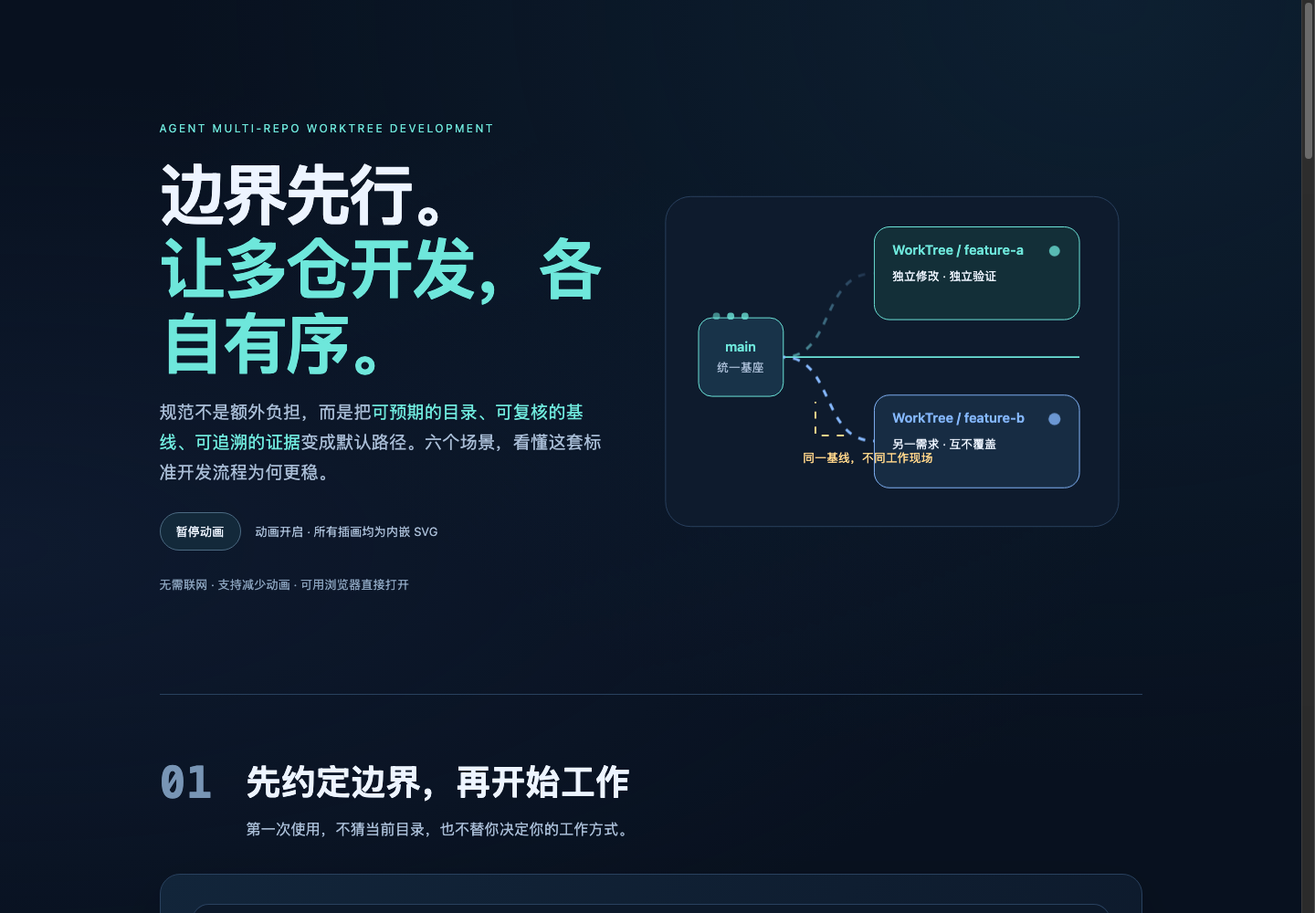
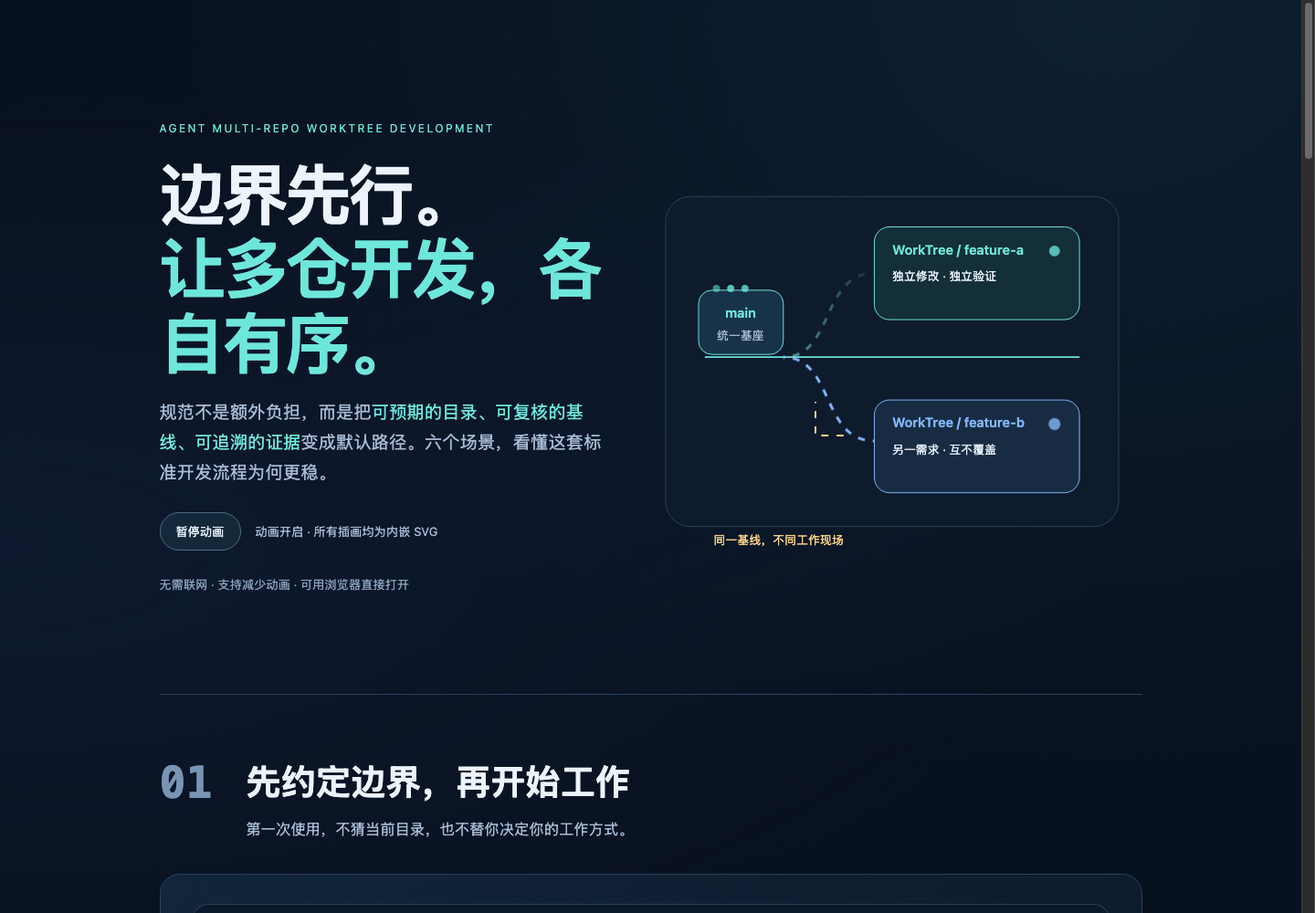
fix: remove visualization animation overlaps

Changed region(s): [[0.625, 0.434, 0.8125, 0.558], [0.5312, 0.31, 0.5938, 0.434], [0.5625, 0.589, 0.6562, 0.62]]

diff --git a/docs/visualizations/standard-workflow.html b/docs/visualizations/standard-workflow.html
@@ -5,7 +5,7 @@
 <meta name="viewport" content="width=device-width,initial-scale=1">
 <title>边界先行 · 多仓 Worktree 标准开发流程</title>
 <style>
-:root{color-scheme:dark;--bg:#08111f;--panel:#101e31;--ink:#edf4ff;--muted:#a6bad3;--cyan:#6ee7db;--blue:#86b9ff;--amber:#ffd58a;--red:#ff9b9b;--line:#29415e}*{box-sizing:border-box}body{margin:0;background:var(--bg);color:var(--ink);font:16px/1.75 -apple-system,BlinkMacSystemFont,"Segoe UI","PingFang SC","Microsoft YaHei",sans-serif}body:before{content:"";position:fixed;inset:0;pointer-events:none;background:radial-gradient(ellipse at 85% 0,#15354c66,transparent 60%),radial-gradient(ellipse at 0 60%,#17274666,transparent 60%)}main{position:relative;max-width:1220px;margin:auto;padding:0 5vw 60px}header{min-height:76vh;display:flex;flex-direction:column;justify-content:center;padding:60px 0 28px}.eyebrow{font-size:12px;letter-spacing:.2em;color:var(--cyan);text-transform:uppercase}h1{font-size:clamp(36px,6.5vw,72px);line-height:1.13;letter-spacing:-.045em;margin:20px 0}h1 span{color:var(--cyan)}h2{font-size:clamp(25px,3vw,38px);line-height:1.3;margin:0 0 14px}h3{font-size:19px;margin:0 0 8px}p{margin:10px 0;color:var(--muted)}strong{color:var(--ink);font-weight:650}.intro{max-width:720px;font-size:19px}.bad{color:var(--red)}.good{color:var(--cyan)}button{border:1px solid #4c6a82;background:#13293a;color:var(--ink);border-radius:999px;padding:9px 17px;font:inherit;cursor:pointer}button:hover{border-color:var(--cyan)}button:focus-visible{outline:3px solid var(--amber);outline-offset:4px}.controls{display:flex;gap:16px;align-items:center;margin:26px 0;font-size:13px;color:var(--muted)}.hero{display:grid;grid-template-columns:1fr 1.1fr;align-items:center;gap:30px}.hero svg{width:100%;max-height:420px}.note{font-size:13px;color:#88a0bb}.chapter{padding:70px 0 24px;border-top:1px solid var(--line)}.chapter-head{display:grid;grid-template-columns:80px 1fr;gap:15px;align-items:start;margin-bottom:25px}.number{font:600 48px/1.1 ui-monospace,SFMono-Regular,Consolas,monospace;color:#7895b5}.diagram{border:1px solid var(--line);border-radius:22px;background:linear-gradient(135deg,#12253a,#0c1728);overflow-x:auto;overflow-y:hidden;margin:24px 0;box-shadow:0 20px 65px #0002}.diagram svg{display:block;width:100%;height:auto}.caption{padding:0 22px 20px;font-size:14px;color:var(--muted)}.two-col{display:grid;grid-template-columns:1fr 1fr;gap:20px}.callout{border-left:3px solid var(--cyan);padding:10px 18px;background:#12253a88;border-radius:0 10px 10px 0;margin:20px 0}.callout p{margin:0}.warning{border-left-color:var(--amber)}.principles{display:grid;grid-template-columns:repeat(3,1fr);gap:16px;margin-top:24px}.principle{background:var(--panel);border:1px solid var(--line);border-radius:16px;padding:22px}.principle svg{width:48px;height:48px;vertical-align:middle;margin-right:10px}.principle h3{display:inline}.principle p{font-size:14px}.footer{margin-top:50px;padding-top:24px;border-top:1px solid var(--line);font-size:14px}.text-cyan{fill:#6ee7db}.text-blue{fill:#86b9ff}.text-amber{fill:#ffd58a}.text-muted{fill:#a6bad3}.text-ink{fill:#edf4ff}.text-red{fill:#ff9b9b}.svg-label{font:600 15px -apple-system,BlinkMacSystemFont,"Segoe UI","PingFang SC",sans-serif}.svg-small{font:13px -apple-system,BlinkMacSystemFont,"Segoe UI","PingFang SC",sans-serif}.svg-mono{font:12px ui-monospace,SFMono-Regular,Consolas,monospace}.flow{stroke-dasharray:8 9;animation:dash 3s linear infinite}.pulse{animation:pulse 2.8s ease-in-out infinite}.float{animation:float 5s ease-in-out infinite}.scan{animation:scan 4s ease-in-out infinite}.spin{transform-origin:center;animation:spin 14s linear infinite}.blink{animation:blink 2.4s ease-in-out infinite}.paused *{animation-play-state:paused!important}@keyframes dash{to{stroke-dashoffset:-68}}@keyframes pulse{0%,100%{opacity:.35}50%{opacity:1}}@keyframes float{0%,100%{transform:translateY(0)}50%{transform:translateY(-8px)}}@keyframes scan{0%,100%{transform:translateX(0);opacity:.1}45%,55%{transform:translateX(210px);opacity:.8}}@keyframes spin{to{transform:rotate(360deg)}}@keyframes blink{0%,100%{opacity:.3}50%{opacity:1}}@media(prefers-reduced-motion:reduce){*{animation:none!important;scroll-behavior:auto!important}}@media(max-width:760px){main{padding:0 6vw 40px}.hero,.two-col{grid-template-columns:1fr}.hero{padding-top:20px}.principles{grid-template-columns:1fr}.chapter{padding-top:44px}.chapter-head{grid-template-columns:48px 1fr}.number{font-size:32px}header{min-height:auto}.intro{font-size:17px}.diagram svg{width:800px;max-width:none}.hero svg{width:100%;max-width:none}}@media print{body{background:#fff;color:#111}body:before{display:none}p,.note,.caption,.controls,.footer{color:#333}.diagram,.principle{box-shadow:none;background:#12253a;border-color:#bbb}.chapter{break-inside:avoid}header{min-height:auto}.controls{display:none}}
+:root{color-scheme:dark;--bg:#08111f;--panel:#101e31;--ink:#edf4ff;--muted:#a6bad3;--cyan:#6ee7db;--blue:#86b9ff;--amber:#ffd58a;--red:#ff9b9b;--line:#29415e}*{box-sizing:border-box}body{margin:0;background:var(--bg);color:var(--ink);font:16px/1.75 -apple-system,BlinkMacSystemFont,"Segoe UI","PingFang SC","Microsoft YaHei",sans-serif}body:before{content:"";position:fixed;inset:0;pointer-events:none;background:radial-gradient(ellipse at 85% 0,#15354c66,transparent 60%),radial-gradient(ellipse at 0 60%,#17274666,transparent 60%)}main{position:relative;max-width:1220px;margin:auto;padding:0 5vw 60px}header{min-height:76vh;display:flex;flex-direction:column;justify-content:center;padding:60px 0 28px}.eyebrow{font-size:12px;letter-spacing:.2em;color:var(--cyan);text-transform:uppercase}h1{font-size:clamp(36px,6.5vw,72px);line-height:1.13;letter-spacing:-.045em;margin:20px 0}h1 span{color:var(--cyan)}h2{font-size:clamp(25px,3vw,38px);line-height:1.3;margin:0 0 14px}h3{font-size:19px;margin:0 0 8px}p{margin:10px 0;color:var(--muted)}strong{color:var(--ink);font-weight:650}.intro{max-width:720px;font-size:19px}.bad{color:var(--red)}.good{color:var(--cyan)}button{border:1px solid #4c6a82;background:#13293a;color:var(--ink);border-radius:999px;padding:9px 17px;font:inherit;cursor:pointer}button:hover{border-color:var(--cyan)}button:focus-visible{outline:3px solid var(--amber);outline-offset:4px}.controls{display:flex;gap:16px;align-items:center;margin:26px 0;font-size:13px;color:var(--muted)}.hero{display:grid;grid-template-columns:1fr 1.1fr;align-items:center;gap:30px}.hero svg{width:100%;max-height:420px}.note{font-size:13px;color:#88a0bb}.chapter{padding:70px 0 24px;border-top:1px solid var(--line)}.chapter-head{display:grid;grid-template-columns:80px 1fr;gap:15px;align-items:start;margin-bottom:25px}.number{font:600 48px/1.1 ui-monospace,SFMono-Regular,Consolas,monospace;color:#7895b5}.diagram{border:1px solid var(--line);border-radius:22px;background:linear-gradient(135deg,#12253a,#0c1728);overflow-x:auto;overflow-y:hidden;margin:24px 0;box-shadow:0 20px 65px #0002}.diagram svg{display:block;width:100%;height:auto}.caption{padding:0 22px 20px;font-size:14px;color:var(--muted)}.two-col{display:grid;grid-template-columns:1fr 1fr;gap:20px}.callout{border-left:3px solid var(--cyan);padding:10px 18px;background:#12253a88;border-radius:0 10px 10px 0;margin:20px 0}.callout p{margin:0}.warning{border-left-color:var(--amber)}.principles{display:grid;grid-template-columns:repeat(3,1fr);gap:16px;margin-top:24px}.principle{background:var(--panel);border:1px solid var(--line);border-radius:16px;padding:22px}.principle svg{width:48px;height:48px;vertical-align:middle;margin-right:10px}.principle h3{display:inline}.principle p{font-size:14px}.footer{margin-top:50px;padding-top:24px;border-top:1px solid var(--line);font-size:14px}.text-cyan{fill:#6ee7db}.text-blue{fill:#86b9ff}.text-amber{fill:#ffd58a}.text-muted{fill:#a6bad3}.text-ink{fill:#edf4ff}.text-red{fill:#ff9b9b}.svg-label{font:600 15px -apple-system,BlinkMacSystemFont,"Segoe UI","PingFang SC",sans-serif}.svg-small{font:13px -apple-system,BlinkMacSystemFont,"Segoe UI","PingFang SC",sans-serif}.svg-mono{font:12px ui-monospace,SFMono-Regular,Consolas,monospace}.flow{stroke-dasharray:8 9;animation:dash 3s linear infinite}.pulse{animation:pulse 2.8s ease-in-out infinite}.float{animation:float 7s ease-in-out infinite}.scan{animation:scan 4s ease-in-out infinite}.spin{transform-origin:center;animation:spin 14s linear infinite}.blink{animation:blink 2.4s ease-in-out infinite}.paused *{animation-play-state:paused!important}@keyframes dash{to{stroke-dashoffset:-68}}@keyframes pulse{0%,100%{opacity:.35}50%{opacity:1}}@keyframes float{0%,100%{transform:translateY(0)}50%{transform:translateY(-3px)}}@keyframes scan{0%,100%{transform:translateX(0);opacity:.1}45%,55%{transform:translateX(210px);opacity:.8}}@keyframes spin{to{transform:rotate(360deg)}}@keyframes blink{0%,100%{opacity:.3}50%{opacity:1}}@media(prefers-reduced-motion:reduce){*{animation:none!important;scroll-behavior:auto!important}}@media(max-width:760px){main{padding:0 6vw 40px}.hero,.two-col{grid-template-columns:1fr}.hero{padding-top:20px}.principles{grid-template-columns:1fr}.chapter{padding-top:44px}.chapter-head{grid-template-columns:48px 1fr}.number{font-size:32px}header{min-height:auto}.intro{font-size:17px}.diagram svg{width:800px;max-width:none}.hero svg{width:100%;max-width:none}}@media print{body{background:#fff;color:#111}body:before{display:none}p,.note,.caption,.controls,.footer{color:#333}.diagram,.principle{box-shadow:none;background:#12253a;border-color:#bbb}.chapter{break-inside:avoid}header{min-height:auto}.controls{display:none}}
 </style>
 </head>
 <body>
@@ -18,18 +18,18 @@
 <div class="controls"><button id="motion-toggle" type="button" aria-pressed="false">暂停动画</button><span id="motion-status">动画开启 · 所有插画均为内嵌 SVG</span></div>
 <p class="note">无需联网 · 支持减少动画 · 可用浏览器直接打开</p>
 </div>
-<svg viewBox="0 0 560 430" role="img" aria-labelledby="hero-title hero-desc"><title id="hero-title">多个项目在隔离工作区并行开发</title><desc id="hero-desc">主分支基座分出两个独立分支空间，分支线不交叉。</desc><defs><linearGradient id="hero-glow" x1="0" x2="1"><stop stop-color="#6ee7db" stop-opacity=".7"/><stop offset="1" stop-color="#86b9ff" stop-opacity=".1"/></linearGradient></defs><rect x="26" y="30" width="508" height="370" rx="28" fill="#0e1b2d" stroke="#29415e"/><path d="M70 210H490" stroke="#29415e" stroke-width="2"><animate attributeName="stroke" values="#29415e;#6ee7db;#29415e" dur="4s" repeatCount="indefinite"/></path><g class="float"><rect x="63" y="166" width="95" height="88" rx="15" fill="#183349" stroke="#6ee7db"/><text x="110" y="204" text-anchor="middle" class="text-cyan svg-label">main</text><text x="110" y="226" text-anchor="middle" class="text-muted svg-small">统一基座</text><g fill="#6ee7db"><circle cx="83" cy="164" r="4"><animate attributeName="opacity" values=".35;1;.35" dur="2.4s" repeatCount="indefinite"/></circle><circle cx="99" cy="164" r="4"><animate attributeName="opacity" values="1;.35;1" dur="2.4s" repeatCount="indefinite"/></circle><circle cx="115" cy="164" r="4"><animate attributeName="opacity" values=".35;1;.35" dur="2.4s" begin=".4s" repeatCount="indefinite"/></circle></g></g><path d="M158 210C215 210 200 116 260 116" fill="none" stroke="url(#hero-glow)" stroke-width="3" class="flow"/><path d="M158 210C215 210 200 304 260 304" fill="none" stroke="#86b9ff" stroke-width="3" class="flow"/><g class="float"><rect x="260" y="64" width="230" height="104" rx="17" fill="#132f38" stroke="#6ee7db"/><text x="280" y="95" class="text-cyan svg-label">WorkTree / feature-a</text><text x="280" y="124" class="text-ink svg-small">独立修改 · 独立验证</text><circle cx="462" cy="91" r="6" fill="#6ee7db" class="pulse"><animate attributeName="r" values="5;7;5" dur="2.8s" repeatCount="indefinite"/></circle></g><g class="float" style="animation-delay:-2s"><rect x="260" y="260" width="230" height="104" rx="17" fill="#172c43" stroke="#86b9ff"/><text x="280" y="291" class="text-blue svg-label">WorkTree / feature-b</text><text x="280" y="320" class="text-ink svg-small">另一需求 · 互不覆盖</text><circle cx="462" cy="287" r="6" fill="#86b9ff" class="pulse"><animate attributeName="r" values="5;7;5" dur="2.8s" begin=".8s" repeatCount="indefinite"/></circle></g><path d="M194 260v38h36" fill="none" stroke="#ffd58a" stroke-width="2" class="flow"/><text x="180" y="328" class="text-amber svg-small">同一基线，不同工作现场</text></svg>
+<svg viewBox="0 0 560 430" role="img" aria-labelledby="hero-title hero-desc"><title id="hero-title">多个项目在隔离工作区并行开发</title><desc id="hero-desc">主分支基座分出两个独立分支空间，分支线不交叉。</desc><defs><linearGradient id="hero-glow" x1="0" x2="1"><stop stop-color="#6ee7db" stop-opacity=".7"/><stop offset="1" stop-color="#86b9ff" stop-opacity=".1"/></linearGradient></defs><rect x="26" y="30" width="508" height="370" rx="28" fill="#0e1b2d" stroke="#29415e"/><path d="M70 210H490" stroke="#29415e" stroke-width="2"><animate attributeName="stroke" values="#29415e;#6ee7db;#29415e" dur="4s" repeatCount="indefinite"/></path><g class="float"><rect x="63" y="135" width="95" height="72" rx="15" fill="#183349" stroke="#6ee7db"/><text x="110" y="166" text-anchor="middle" class="text-cyan svg-label">main</text><text x="110" y="190" text-anchor="middle" class="text-muted svg-small">统一基座</text><g fill="#6ee7db"><circle cx="83" cy="133" r="4"><animate attributeName="opacity" values=".35;1;.35" dur="2.4s" repeatCount="indefinite"/></circle><circle cx="99" cy="133" r="4"><animate attributeName="opacity" values="1;.35;1" dur="2.4s" repeatCount="indefinite"/></circle><circle cx="115" cy="133" r="4"><animate attributeName="opacity" values=".35;1;.35" dur="2.4s" begin=".4s" repeatCount="indefinite"/></circle></g></g><path d="M158 210C215 210 200 116 260 116" fill="none" stroke="url(#hero-glow)" stroke-width="3" class="flow"/><path d="M158 210C215 210 200 304 260 304" fill="none" stroke="#86b9ff" stroke-width="3" class="flow"/><g class="float"><rect x="260" y="64" width="230" height="104" rx="17" fill="#132f38" stroke="#6ee7db"/><text x="280" y="95" class="text-cyan svg-label">WorkTree / feature-a</text><text x="280" y="124" class="text-ink svg-small">独立修改 · 独立验证</text><circle cx="462" cy="91" r="6" fill="#6ee7db" class="pulse"><animate attributeName="r" values="5;7;5" dur="2.8s" repeatCount="indefinite"/></circle></g><g class="float" style="animation-delay:-2s"><rect x="260" y="260" width="230" height="104" rx="17" fill="#172c43" stroke="#86b9ff"/><text x="280" y="291" class="text-blue svg-label">WorkTree / feature-b</text><text x="280" y="320" class="text-ink svg-small">另一需求 · 互不覆盖</text><circle cx="462" cy="287" r="6" fill="#86b9ff" class="pulse"><animate attributeName="r" values="5;7;5" dur="2.8s" begin=".8s" repeatCount="indefinite"/></circle></g><path d="M194 260v38h36" fill="none" stroke="#ffd58a" stroke-width="2" class="flow"/><text x="80" y="420" class="text-amber svg-small">同一基线，不同工作现场</text></svg>
 </header>
 
 <section id="boundary" class="chapter">
 <div class="chapter-head"><div class="number">01</div><div><h2>先约定边界，再开始工作</h2><p>第一次使用，不猜当前目录，也不替你决定你的工作方式。</p></div></div>
-<div class="diagram"><svg viewBox="0 0 1060 410" role="img" aria-labelledby="boundary-title"><title id="boundary-title">main 和 WorkTree 两个同级基座目录</title><rect x="34" y="32" width="992" height="344" rx="18" fill="#0c192a" stroke="#29415e"/><g transform="translate(74 66)"><rect width="912" height="54" rx="10" fill="#162b41"/><text x="20" y="34" class="text-ink svg-label">&lt;workspace&gt; / 共同父目录</text><text x="610" y="34" class="text-muted svg-small">.branch-worktree/config.yaml</text></g><path d="M300 130v34M720 130v34M300 164H190M300 164h200M720 164H610M720 164h200" stroke="#52708f" stroke-width="2"/><g class="float"><rect x="110" y="165" width="160" height="120" rx="14" fill="#153342" stroke="#6ee7db"/><text x="190" y="208" text-anchor="middle" class="text-cyan svg-label">main</text><text x="190" y="235" text-anchor="middle" class="text-muted svg-small">项目主分支 checkout</text><path d="M151 258h78" stroke="#6ee7db" stroke-width="2"/></g><g class="float" style="animation-delay:-1.4s"><rect x="420" y="165" width="160" height="120" rx="14" fill="#142d44" stroke="#86b9ff"/><text x="500" y="208" text-anchor="middle" class="text-blue svg-label">WorkTree</text><text x="500" y="235" text-anchor="middle" class="text-muted svg-small">每个需求一个目录</text><path d="M461 258h78" stroke="#86b9ff" stroke-width="2"/></g><g><rect x="530" y="145" width="145" height="160" rx="12" fill="#101f31" stroke="#52708f"/><text x="602" y="178" text-anchor="middle" class="text-blue svg-small">WorkTree/feature/repo</text><text x="602" y="209" text-anchor="middle" class="text-muted svg-small">隔离写代码</text><text x="602" y="239" text-anchor="middle" class="text-muted svg-small">独立装依赖</text><text x="602" y="269" text-anchor="middle" class="text-muted svg-small">独立跑服务</text></g><g><rect x="740" y="145" width="145" height="160" rx="12" fill="#101f31" stroke="#52708f"/><text x="812" y="178" text-anchor="middle" class="text-blue svg-small">WorkTree/fix/repo</text><text x="812" y="209" text-anchor="middle" class="text-muted svg-small">另一项修复</text><text x="812" y="239" text-anchor="middle" class="text-muted svg-small">不互相覆盖</text><text x="812" y="269" text-anchor="middle" class="text-muted svg-small">不共享现场</text></g><path d="M120 333H880" stroke="#29415e"><animate attributeName="stroke-dashoffset" values="0;18" dur="2s" repeatCount="indefinite"/></path><text x="120" y="360" class="text-cyan svg-label">main 是基座，WorkTree 是现场；二者职责不同，位置同级。</text></svg><div class="caption">动画只强调关系：基座不动，分支各有空间。首次初始化必须先回答“主 checkout 在哪里、开发 worktree 在哪里”。</div></div>
+<div class="diagram"><svg viewBox="0 0 1060 410" role="img" aria-labelledby="boundary-title"><title id="boundary-title">main 和 WorkTree 两个同级基座目录</title><rect x="34" y="32" width="992" height="344" rx="18" fill="#0c192a" stroke="#29415e"/><g transform="translate(74 66)"><rect width="912" height="54" rx="10" fill="#162b41"/><text x="20" y="34" class="text-ink svg-label">&lt;workspace&gt; / 共同父目录</text><text x="610" y="34" class="text-muted svg-small">.branch-worktree/config.yaml</text></g><path d="M300 130v34M720 130v34M300 164H190M300 164h200M720 164H610M720 164h200" stroke="#52708f" stroke-width="2"/><g class="float"><rect x="110" y="165" width="160" height="120" rx="14" fill="#153342" stroke="#6ee7db"/><text x="190" y="208" text-anchor="middle" class="text-cyan svg-label">main</text><text x="190" y="235" text-anchor="middle" class="text-muted svg-small">项目主分支 checkout</text><path d="M151 258h78" stroke="#6ee7db" stroke-width="2"/></g><g class="float" style="animation-delay:-1.4s"><rect x="350" y="165" width="150" height="120" rx="14" fill="#142d44" stroke="#86b9ff"/><text x="425" y="208" text-anchor="middle" class="text-blue svg-label">WorkTree</text><text x="425" y="235" text-anchor="middle" class="text-muted svg-small">每个需求一个目录</text><path d="M386 258h78" stroke="#86b9ff" stroke-width="2"/></g><g><rect x="530" y="145" width="145" height="160" rx="12" fill="#101f31" stroke="#52708f"/><text x="602" y="178" text-anchor="middle" class="text-blue svg-small">WorkTree/feature/repo</text><text x="602" y="209" text-anchor="middle" class="text-muted svg-small">隔离写代码</text><text x="602" y="239" text-anchor="middle" class="text-muted svg-small">独立装依赖</text><text x="602" y="269" text-anchor="middle" class="text-muted svg-small">独立跑服务</text></g><g><rect x="740" y="145" width="145" height="160" rx="12" fill="#101f31" stroke="#52708f"/><text x="812" y="178" text-anchor="middle" class="text-blue svg-small">WorkTree/fix/repo</text><text x="812" y="209" text-anchor="middle" class="text-muted svg-small">另一项修复</text><text x="812" y="239" text-anchor="middle" class="text-muted svg-small">不互相覆盖</text><text x="812" y="269" text-anchor="middle" class="text-muted svg-small">不共享现场</text></g><path d="M120 333H880" stroke="#29415e"><animate attributeName="stroke-dashoffset" values="0;18" dur="2s" repeatCount="indefinite"/></path><text x="120" y="360" class="text-cyan svg-label">main 是基座，WorkTree 是现场；二者职责不同，位置同级。</text></svg><div class="caption">动画只强调关系：基座不动，分支各有空间。首次初始化必须先回答“主 checkout 在哪里、开发 worktree 在哪里”。</div></div>
 <div class="two-col"><div class="callout warning"><p><strong>没有约定：</strong>当前目录随手改、多个需求共用一个现场，最后很难回答“这是谁改坏的”。</p></div><div class="callout"><p><strong>有了约定：</strong>主分支用于核对基线，开发分支用于实际改动，物理目录把责任边界写清楚。</p></div></div>
 </section>
 
 <section id="preflight" class="chapter">
 <div class="chapter-head"><div class="number">02</div><div><h2>把风险拦在第一次写入之前</h2><p>规范的价值不是“出了错再修”，而是不给错误进入工作区的机会。</p></div></div>
-<div class="diagram"><svg viewBox="0 0 1060 360" role="img" aria-labelledby="gate-title"><title id="gate-title">配置、路径、remote、基线和占用全部预检</title><path d="M80 180H960" stroke="#35516d" stroke-width="4"/><g class="pulse"><circle cx="160" cy="180" r="36" fill="#153342" stroke="#6ee7db" stroke-width="2"/><text x="160" y="177" text-anchor="middle" class="text-cyan svg-label">配置</text><text x="160" y="197" text-anchor="middle" class="text-muted svg-small">闭合校验</text></g><g class="pulse" style="animation-delay:-.5s"><circle cx="350" cy="180" r="36" fill="#153342" stroke="#6ee7db" stroke-width="2"/><text x="350" y="177" text-anchor="middle" class="text-cyan svg-label">路径</text><text x="350" y="197" text-anchor="middle" class="text-muted svg-small">真实位置</text></g><g class="pulse" style="animation-delay:-1s"><circle cx="540" cy="180" r="36" fill="#153342" stroke="#6ee7db" stroke-width="2"/><text x="540" y="177" text-anchor="middle" class="text-cyan svg-label">remote</text><text x="540" y="197" text-anchor="middle" class="text-muted svg-small">明确选择</text></g><g class="pulse" style="animation-delay:-1.5s"><circle cx="730" cy="180" r="36" fill="#153342" stroke="#6ee7db" stroke-width="2"/><text x="730" y="177" text-anchor="middle" class="text-cyan svg-label">基线</text><text x="730" y="197" text-anchor="middle" class="text-muted svg-small">完整 SHA</text></g><g class="pulse" style="animation-delay:-2s"><circle cx="920" cy="180" r="36" fill="#153342" stroke="#6ee7db" stroke-width="2"/><text x="920" y="177" text-anchor="middle" class="text-cyan svg-label">占用</text><text x="920" y="197" text-anchor="middle" class="text-muted svg-small">全局预检</text></g><path d="M65 65H995" stroke="#1d354e"><animate attributeName="stroke" values="#1d354e;#6ee7db;#1d354e" dur="5s" repeatCount="indefinite"/></path><text x="80" y="54" class="text-muted svg-small">重复键 · 保留目录 · 符号链接逃逸 · 分支冲突 · 本地/远端分歧</text><rect x="65" y="82" width="75" height="5" rx="2" fill="#6ee7db" class="scan"/><g transform="translate(330 260)"><rect width="400" height="55" rx="27" fill="#142f38" stroke="#6ee7db"/><text x="200" y="34" text-anchor="middle" class="text-cyan svg-label">全部通过，才允许创建 worktree</text></g><path d="M380 70l15 15 28-32" fill="none" stroke="#6ee7db" stroke-width="4" stroke-linecap="round" stroke-linejoin="round"/></svg><div class="caption">不是先建目录再发现问题。所有仓库的来源、目标、占用、基线都在任何 tmp/、分支或 worktree 写入前统一消解。</div></div>
+<div class="diagram"><svg viewBox="0 0 1060 360" role="img" aria-labelledby="gate-title"><title id="gate-title">配置、路径、remote、基线和占用全部预检</title><path d="M205 180h100M395 180h100M585 180h100M775 180h100" stroke="#35516d" stroke-width="2"/><g><rect x="115" y="145" width="90" height="70" rx="12" fill="#0e1b2d"/><g class="pulse"><circle cx="160" cy="174" r="30" fill="#153342" stroke="#6ee7db" stroke-width="2"/><text x="160" y="177" text-anchor="middle" class="text-cyan svg-label">配置</text><text x="160" y="197" text-anchor="middle" class="text-muted svg-small">闭合校验</text></g><g><rect x="305" y="145" width="90" height="70" rx="12" fill="#0e1b2d"/><g class="pulse" style="animation-delay:-.5s"><circle cx="350" cy="174" r="30" fill="#153342" stroke="#6ee7db" stroke-width="2"/><text x="350" y="177" text-anchor="middle" class="text-cyan svg-label">路径</text><text x="350" y="197" text-anchor="middle" class="text-muted svg-small">真实位置</text></g><g><rect x="495" y="145" width="90" height="70" rx="12" fill="#0e1b2d"/><g class="pulse" style="animation-delay:-1s"><circle cx="540" cy="174" r="30" fill="#153342" stroke="#6ee7db" stroke-width="2"/><text x="540" y="177" text-anchor="middle" class="text-cyan svg-label">remote</text><text x="540" y="197" text-anchor="middle" class="text-muted svg-small">明确选择</text></g><g><rect x="685" y="145" width="90" height="70" rx="12" fill="#0e1b2d"/><g class="pulse" style="animation-delay:-1.5s"><circle cx="730" cy="174" r="30" fill="#153342" stroke="#6ee7db" stroke-width="2"/><text x="730" y="177" text-anchor="middle" class="text-cyan svg-label">基线</text><text x="730" y="197" text-anchor="middle" class="text-muted svg-small">完整 SHA</text></g><g><rect x="875" y="145" width="90" height="70" rx="12" fill="#0e1b2d"/><g class="pulse" style="animation-delay:-2s"><circle cx="920" cy="174" r="30" fill="#153342" stroke="#6ee7db" stroke-width="2"/><text x="920" y="177" text-anchor="middle" class="text-cyan svg-label">占用</text><text x="920" y="197" text-anchor="middle" class="text-muted svg-small">全局预检</text></g><path d="M65 65H995" stroke="#1d354e"><animate attributeName="stroke" values="#1d354e;#6ee7db;#1d354e" dur="5s" repeatCount="indefinite"/></path><text x="80" y="54" class="text-muted svg-small">重复键 · 保留目录 · 符号链接逃逸 · 分支冲突 · 本地/远端分歧</text><rect x="65" y="82" width="75" height="5" rx="2" fill="#6ee7db" class="scan"/><g transform="translate(330 270)"><rect width="400" height="55" rx="27" fill="#142f38" stroke="#6ee7db"/><text x="200" y="34" text-anchor="middle" class="text-cyan svg-label">全部通过，才允许创建 worktree</text></g><path d="M900 70l15 15 28-32" fill="none" stroke="#6ee7db" stroke-width="4" stroke-linecap="round" stroke-linejoin="round"/></svg><div class="caption">不是先建目录再发现问题。所有仓库的来源、目标、占用、基线都在任何 tmp/、分支或 worktree 写入前统一消解。</div></div>
 <div class="callout"><p><strong>规范把“想当然”变成可检查的问题：</strong>这个 remote 是谁选的？默认分支指向哪个完整 SHA？本地与远端同名分支是同一提交，还是已经分叉？</p></div>
 </section>
 
@@ -47,7 +47,7 @@
 
 <section id="handoff" class="chapter">
 <div class="chapter-head"><div class="number">05</div><div><h2>让下一位接手者，从事实开始</h2><p>交接不是“我差不多做完了”，而是把状态、证据、阻塞和下一步放在同一个入口。</p></div></div>
-<div class="diagram"><svg viewBox="0 0 1060 405" role="img" aria-labelledby="handoff-title"><title id="handoff-title">结构化交接文档与证据链接</title><g transform="translate(120 32)"><rect width="820" height="340" rx="16" fill="#101e30" stroke="#35516d"/><text x="30" y="42" class="text-ink svg-label">tmp/README.md · 分支交接</text><path d="M30 62H790" stroke="#29415e"/><g transform="translate(30 82)"><rect width="760" height="58" rx="8" fill="#392d29"/><text x="16" y="25" class="text-amber svg-label">先列阻塞：缺什么 · 谁处理 · 如何解除</text><text x="16" y="45" class="text-muted svg-small">不让成功摘要遮住未完成的现实</text></g><g transform="translate(30 157)"><text class="text-blue svg-small">仓库</text><text x="160" class="text-blue svg-small">基线 / 当前 commit</text><text x="410" class="text-blue svg-small">状态</text><text x="560" class="text-blue svg-small">证据链接</text><path d="M0 28H760M0 61H760M0 94H760" stroke="#29415e"/><text y="49" class="text-muted svg-small">repo-a</text><text x="160" y="49" class="text-muted svg-mono">base → current</text><text x="410" y="49" class="text-cyan svg-small">进行中</text><text x="560" y="49" class="text-cyan svg-small">↗ 验证记录</text><text y="82" class="text-muted svg-small">repo-b</text><text x="160" y="82" class="text-muted svg-mono">base → current</text><text x="410" y="82" class="text-amber svg-small">阻塞</text><text x="560" y="82" class="text-cyan svg-small">↗ 待补记录</text></g><g transform="translate(30 282)"><path d="M0 0H760" stroke="#29415e"/><text y="29" class="text-cyan svg-label">下一步：动作 + 执行者 + 等待条件</text></g></g><path d="M820 150h85" stroke="#6ee7db" stroke-width="2" class="flow"/><g class="pulse"><circle cx="925" cy="150" r="14" fill="#6ee7db"/><path d="M918 150l5 5 10-11" fill="none" stroke="#08111f" stroke-width="3"/></g></svg><div class="caption">矩阵是状态索引，详细证据放到 tmp/ 附件并链接。即使证据尚缺，也要链接到明确记录缺失命令、负责人和所需结果的待补记录。</div></div>
+<div class="diagram"><svg viewBox="0 0 1060 405" role="img" aria-labelledby="handoff-title"><title id="handoff-title">结构化交接文档与证据链接</title><g transform="translate(120 32)"><rect width="820" height="340" rx="16" fill="#101e30" stroke="#35516d"/><text x="30" y="42" class="text-ink svg-label">tmp/README.md · 分支交接</text><path d="M30 62H790" stroke="#29415e"/><g transform="translate(30 82)"><rect width="760" height="58" rx="8" fill="#392d29"/><text x="16" y="25" class="text-amber svg-label">先列阻塞：缺什么 · 谁处理 · 如何解除</text><text x="16" y="45" class="text-muted svg-small">不让成功摘要遮住未完成的现实</text></g><g transform="translate(30 157)"><text class="text-blue svg-small">仓库</text><text x="160" class="text-blue svg-small">基线 / 当前 commit</text><text x="410" class="text-blue svg-small">状态</text><text x="560" class="text-blue svg-small">证据链接</text><path d="M0 28H760M0 61H760M0 94H760" stroke="#29415e"/><text y="49" class="text-muted svg-small">repo-a</text><text x="160" y="49" class="text-muted svg-mono">base → current</text><text x="410" y="49" class="text-cyan svg-small">进行中</text><text x="560" y="49" class="text-cyan svg-small">↗ 验证记录</text><text y="82" class="text-muted svg-small">repo-b</text><text x="160" y="82" class="text-muted svg-mono">base → current</text><text x="410" y="82" class="text-amber svg-small">阻塞</text><text x="560" y="82" class="text-cyan svg-small">↗ 待补记录</text></g><g transform="translate(30 282)"><path d="M0 0H760" stroke="#29415e"/><text y="29" class="text-cyan svg-label">下一步：动作 + 执行者 + 等待条件</text></g></g><path d="M855 150H952" stroke="#6ee7db" stroke-width="2" class="flow"/><g class="pulse"><circle cx="966" cy="150" r="9" fill="#6ee7db"/><path d="M961 150l3 3 6-6" fill="none" stroke="#08111f" stroke-width="2"/></g></svg><div class="caption">矩阵是状态索引，详细证据放到 tmp/ 附件并链接。即使证据尚缺，也要链接到明确记录缺失命令、负责人和所需结果的待补记录。</div></div>
 <div class="callout"><p><strong>可交接性 = 减少重新理解成本。</strong>下一个 agent 或同事不必重走整条排查链，就能知道哪些已验证、哪些不能做、下一步由谁完成。</p></div>
 </section>
 

diff --git a/tests/browser_workflow_visualization.js b/tests/browser_workflow_visualization.js
@@ -54,6 +54,8 @@ const delay = (ms) => new Promise((resolve) => setTimeout(resolve, ms));
   }
 
   await call("Page.enable");
+  await call("Network.enable");
+  await call("Network.setCacheDisabled", { cacheDisabled: true });
   await call("Emulation.setDeviceMetricsOverride", { width: 1440, height: 1000, deviceScaleFactor: 1, mobile: false });
   await call("Emulation.setEmulatedMedia", { features: [{ name: "prefers-reduced-motion", value: "no-preference" }] });
   await call("Page.navigate", { url: `file://${path.resolve(__dirname, "../docs/visualizations/standard-workflow.html")}` });
@@ -61,6 +63,65 @@ const delay = (ms) => new Promise((resolve) => setTimeout(resolve, ms));
 
   let value = await evaluate(`Array.from(document.querySelectorAll('svg')).every(svg => !svg.animationsPaused())`);
   assert(value, "default SMIL animations run");
+  value = await evaluate(`(() => {
+    const scene = document.querySelector('header.hero > svg');
+    const lineY = scene.querySelector('path').getBoundingClientRect().y;
+    const label = Array.from(scene.querySelectorAll('text')).find(el => el.textContent === '统一基座').getBoundingClientRect();
+    return lineY < label.top || lineY > label.bottom;
+  })()`);
+  assert(value, "hero connector stays outside primary-checkout label");
+  value = await evaluate(`(() => {
+    const intersects = (a, b) => a.left < b.right && a.right > b.left && a.top < b.bottom && a.bottom > b.top;
+    const scene = document.querySelector('header.hero > svg');
+    const note = Array.from(scene.querySelectorAll('text')).find(el => el.textContent === '同一基线，不同工作现场').getBoundingClientRect();
+    return Array.from(scene.querySelectorAll('rect')).every(el => !intersects(note, el.getBoundingClientRect()));
+  })()`);
+  assert(value, "hero note stays in separate whitespace");
+  value = await evaluate(`(() => {
+    const intersects = (a, b) => a.left < b.right && a.right > b.left && a.top < b.bottom && a.bottom > b.top;
+    const scene = document.querySelector('#boundary svg');
+    const cards = Array.from(scene.querySelectorAll(':scope > g > rect'));
+    return cards.every((card, index) => cards.slice(index + 1).every(other => !intersects(card.getBoundingClientRect(), other.getBoundingClientRect())));
+  })()`);
+  assert(value, "boundary cards do not overlap");
+  value = await evaluate(`(() => {
+    const scene = document.querySelector('#preflight svg');
+    const path = Array.from(scene.querySelectorAll('path')).find(el => el.getAttribute('d') === 'M205 180h100M395 180h100M585 180h100M775 180h100');
+    const strokeWidth = Number(getComputedStyle(path).strokeWidth);
+    const ctm = path.getScreenCTM();
+    const intersects = (a, b) => a.left < b.right && a.right > b.left && a.top < b.bottom && a.bottom > b.top;
+    const labels = Array.from(scene.querySelectorAll('text')).map(el => el.getBoundingClientRect());
+    return Array.from({ length: 101 }, (_, index) => {
+      const point = path.getPointAtLength(path.getTotalLength() * index / 100).matrixTransform(ctm);
+      const box = { left: point.x - strokeWidth / 2 - 2, right: point.x + strokeWidth / 2 + 2, top: point.y - strokeWidth / 2 - 2, bottom: point.y + strokeWidth / 2 + 2 };
+      return labels.every(label => !intersects(box, label));
+    }).every(Boolean);
+  })()`);
+  assert(value, "segmented preflight connector strokes avoid every checkpoint label");
+  value = await evaluate(`(() => {
+    const scene = document.querySelector('#preflight svg');
+    const check = scene.querySelector('path[d="M900 70l15 15 28-32"]');
+    if (!check) return false;
+    const point = check.getPointAtLength(check.getTotalLength() * 0.9).matrixTransform(check.getScreenCTM());
+    const label = Array.from(scene.querySelectorAll('text')).find(el => el.textContent.includes('重复键')).getBoundingClientRect();
+    const strokeWidth = Number(getComputedStyle(check).strokeWidth);
+    return point.x < label.left || point.x > label.right || point.y - strokeWidth / 2 > label.bottom || point.y + strokeWidth / 2 < label.top;
+  })()`);
+  assert(value, "preflight checkmark does not cross warning text");
+  await delay(3600);
+  value = await evaluate(`(() => {
+    const scene = document.querySelector('header.hero > svg');
+    const lineY = scene.querySelector('path').getBoundingClientRect().y;
+    const label = Array.from(scene.querySelectorAll('text')).find(el => el.textContent === '统一基座').getBoundingClientRect();
+    return lineY < label.top || lineY > label.bottom;
+  })()`);
+  assert(value, "hero connector remains outside label at a later animation phase");
+  value = await evaluate(`(() => {
+    const card = document.querySelector('#handoff svg > g > rect').getBoundingClientRect();
+    const indicator = document.querySelector('#handoff svg > g.pulse > circle').getBoundingClientRect();
+    return indicator.right < card.left || indicator.left > card.right || indicator.bottom < card.top || indicator.top > card.bottom;
+  })()`);
+  assert(value, "handoff status indicator stays outside document frame");
   await evaluate(`document.getElementById('motion-toggle').click()`);
   value = await evaluate(`Array.from(document.querySelectorAll('svg')).every(svg => svg.animationsPaused()) && document.body.classList.contains('paused')`);
   assert(value, "pause stops SMIL and CSS");
